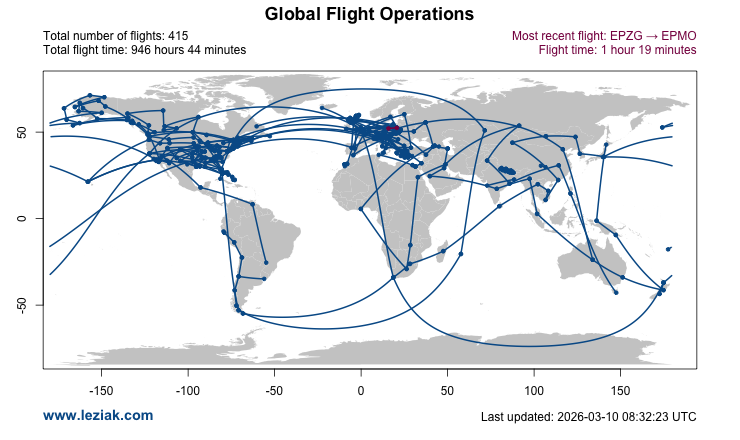
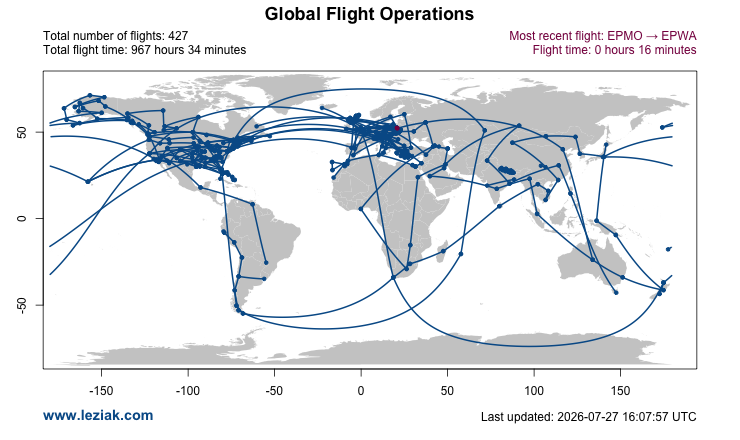
website update 2026072701

diff --git a/docs/flightsim/index.html b/docs/flightsim/index.html
@@ -78,7 +78,7 @@
 
 <p>Below you can see a basic summary of my flight sim activity. This page is updated on a regular basis.</p>
 
-<div class="language-plaintext highlighter-rouge"><div class="highlight"><pre class="highlight"><code>Last updated: 10.03.2026                                                                                                                                                                                                                                                                                                                                                                                                                                                                                                                                                                                                                                                                                                                                                                                                                                                  
+<div class="language-plaintext highlighter-rouge"><div class="highlight"><pre class="highlight"><code>Last updated: 27.07.2026                                                                                                                                                                                                                                                                                                                                                                                                                                                                                                                                                                                                                                                                                                                                                                                                                                                 
 </code></pre></div></div>
 
 <h1 id="flights-summary">Flights summary</h1>
@@ -88,19 +88,19 @@
   <tbody>
     <tr>
       <td><strong>Total number of flights</strong></td>
-      <td><strong>415</strong></td>
+      <td><strong>427</strong></td>
     </tr>
     <tr>
       <td><strong>Total flight time</strong></td>
-      <td><strong>946 hours 44 minutes</strong></td>
+      <td><strong>967 hours 34 minutes</strong></td>
     </tr>
     <tr>
       <td>IFR flight time</td>
-      <td>848 hours 8 minutes</td>
+      <td>865 hours 2 minutes</td>
     </tr>
     <tr>
       <td>Night flight time</td>
-      <td>276 hours 49 minutes</td>
+      <td>277 hours 22 minutes</td>
     </tr>
   </tbody>
 </table>
@@ -3485,6 +3485,102 @@
       <td>EPMO</td>
       <td>C208</td>
       <td>1:19</td>
+    </tr>
+    <tr>
+      <td>416</td>
+      <td>10/03/26</td>
+      <td>EPMO</td>
+      <td>EPBY</td>
+      <td>C208</td>
+      <td>0:49</td>
+    </tr>
+    <tr>
+      <td>417</td>
+      <td>15/03/26</td>
+      <td>EPBY</td>
+      <td>EPPO</td>
+      <td>C208</td>
+      <td>0:31</td>
+    </tr>
+    <tr>
+      <td>418</td>
+      <td>24/03/26</td>
+      <td>EPPO</td>
+      <td>EPZG</td>
+      <td>PZ4M</td>
+      <td>1:43</td>
+    </tr>
+    <tr>
+      <td>419</td>
+      <td>25/03/26</td>
+      <td>EPZG</td>
+      <td>EPZG</td>
+      <td>C510</td>
+      <td>0:18</td>
+    </tr>
+    <tr>
+      <td>420</td>
+      <td>27/03/26</td>
+      <td>EPZG</td>
+      <td>DTTA</td>
+      <td>C510</td>
+      <td>3:40</td>
+    </tr>
+    <tr>
+      <td>421</td>
+      <td>29/03/26</td>
+      <td>DTTA</td>
+      <td>GMMN</td>
+      <td>C510</td>
+      <td>3:40</td>
+    </tr>
+    <tr>
+      <td>422</td>
+      <td>08/04/26</td>
+      <td>GMMN</td>
+      <td>GCTS</td>
+      <td>C510</td>
+      <td>3:21</td>
+    </tr>
+    <tr>
+      <td>423</td>
+      <td>12/04/26</td>
+      <td>GCTS</td>
+      <td>LPMA</td>
+      <td>C510</td>
+      <td>1:46</td>
+    </tr>
+    <tr>
+      <td>424</td>
+      <td>14/04/26</td>
+      <td>LPMA</td>
+      <td>GMMI</td>
+      <td>C510</td>
+      <td>1:33</td>
+    </tr>
+    <tr>
+      <td>425</td>
+      <td>15/04/26</td>
+      <td>GMMI</td>
+      <td>GMMH</td>
+      <td>C510</td>
+      <td>2:54</td>
+    </tr>
+    <tr>
+      <td>426</td>
+      <td>24/07/26</td>
+      <td>EPWA</td>
+      <td>EPMO</td>
+      <td>PZ4M</td>
+      <td>0:19</td>
+    </tr>
+    <tr>
+      <td>427</td>
+      <td>24/07/26</td>
+      <td>EPMO</td>
+      <td>EPWA</td>
+      <td>PZ4M</td>
+      <td>0:16</td>
     </tr>
   </tbody>
 </table>

diff --git a/docs/100-days-offload/index.html b/docs/100-days-offload/index.html
@@ -99,11 +99,11 @@
   <div class="post-content e-content" itemprop="articleBody">
     <p>I have decided to participate in a writing challenge called <a href="https://100daystooffload.com">100 Days To Offload</a>. The challenge is fairy straightforward: to write a hundred articles on a personal blog within a timespan of 365 days. <!--more--> I first read about this challenge on Mastodon and I immediately realised it would be a perfect opportunity to make my personal website more dynamic and to utilise some of ideas for articles I have been putting away for too long.</p>
 
-<p><em>Update: I have cancelled the project after a dozen posts. My current real-life commitments and time allocation does not allow for posting with the required frequency to finish the challenge in time. It was still a valuable experience.</em></p>
-
 <p>In the era of <a href="https://en.wikipedia.org/wiki/Closed_platform">walled gardens</a> the vast majority of information is shared via closed social media platforms like Facebook, Instagram or <del>Twitter</del> X, where only people having an account are able to access published content. They are virtually always subject to ad targeting and profiling, not to mention giving platform provider some rights to their content, as mentioned in terms of service. It deepens the issue with internet being more and more commercial and dwindling open access to interesting articles, blog entires, photographs produced by private individuals. In the early days of internet people were sharing their knowledge, experience, thoughts and opinions via personal websites, blogs, discussion boards and forums. Readers were usually not required to have an account in order to access entries shared by others. Over the last two decades the landscape of internet has shifted dramatically, which endangers the <a href="../persistence-of-information/">persistence and accessibility of information</a>. This is why initiatives like 100 Days to Offload are needed. They help to enrich the personal, unrestricted and non-commercial part of the internet, the part which is not focused on maximising the engagement to generate profit, but instead relies on authenticity and sharing information with others.</p>
 
 <p>I am curious about how will this challenge go for me. Writing a hundred articles in a year means posting one article every 3.6 days on average. I do not aim at publishing at constant time intervals, though. Depending on what I have to say, I may post daily for some period of time followed by a break. I have an entire year to figure out the optimal solution.</p>
+
+<p><em>Update: I have cancelled the project after a dozen posts. My current real-life commitments and time allocation does not allow for posting with the frequency required to finish the challenge in time. It was still a valuable experience.</em></p>
 
   </div>
   
